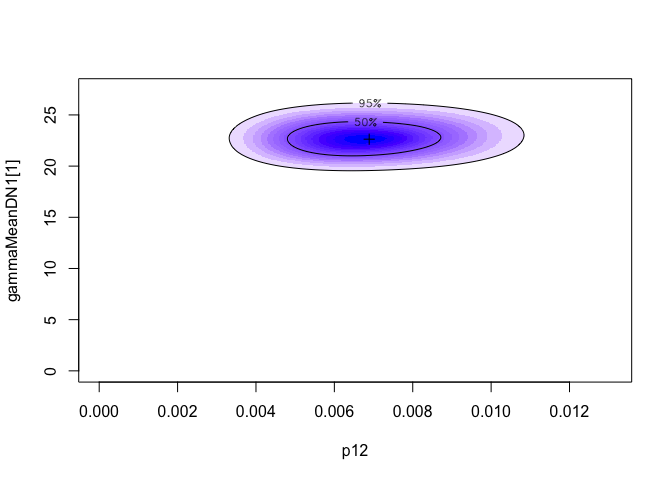
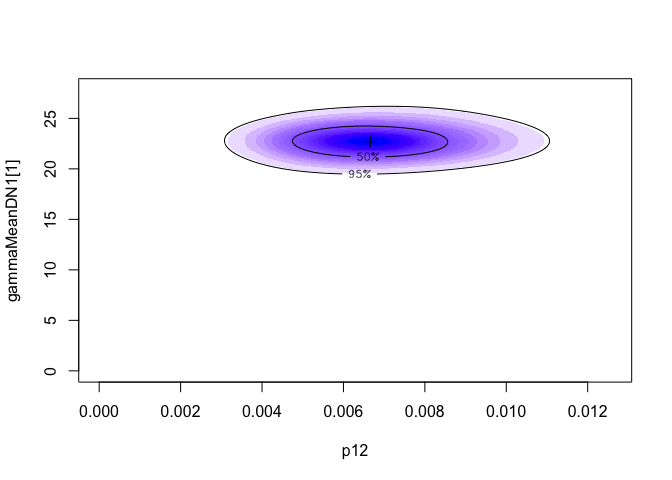
Update

diff --git a/README_mTADA_DD_EE.md b/README_mTADA_DD_EE.md
@@ -261,19 +261,19 @@ head(fData)
 ```
 
     ##   geneName dn_damaging_DD dn_lof_DD dn_damaging_EE dn_lof_EE        NO
-    ## 1     A1BG              0         0              0         0 0.9783450
-    ## 2 A1BG-AS1              0         0              0         0 0.9645882
-    ## 3     A1CF              0         0              0         0 0.9892615
-    ## 4      A2M              0         0              1         0 0.7684200
-    ## 5  A2M-AS1              0         0              0         0 0.9635947
-    ## 6    A2ML1              0         0              0         0 0.9918648
+    ## 1     A1BG              0         0              0         0 0.9785246
+    ## 2 A1BG-AS1              0         0              0         0 0.9647711
+    ## 3     A1CF              0         0              0         0 0.9894171
+    ## 4      A2M              0         0              1         0 0.7720136
+    ## 5  A2M-AS1              0         0              0         0 0.9637774
+    ## 6    A2ML1              0         0              0         0 0.9920100
     ##           BOTH        FIRST      SECOND
-    ## 1 0.0027903541 0.0103240111 0.008540587
-    ## 2 0.0058906752 0.0206214817 0.008899630
-    ## 3 0.0006286489 0.0027170260 0.007392823
-    ## 4 0.0024175419 0.0002621266 0.228900306
-    ## 5 0.0061198844 0.0213744407 0.008911025
-    ## 6 0.0002031260 0.0009292383 0.007002865
+    ## 1 0.0028679901 0.0102413410 0.008366030
+    ## 2 0.0060546081 0.0204564780 0.008717788
+    ## 3 0.0006461228 0.0026951985 0.007241535
+    ## 4 0.0024959676 0.0002611957 0.225229188
+    ## 5 0.0062901964 0.0212034136 0.008728950
+    ## 6 0.0002087698 0.0009217631 0.006859482
 
 ##### Genes with PP3 &gt; 0.8 (Posterior probabilities of Model 3)
 
@@ -297,20 +297,20 @@ fData[fData$BOTH > 0.8, ]
     ## 14681    SCN8A              6         0              2         0
     ## 16228   STXBP1              6         5              4         1
     ##                 NO      BOTH        FIRST       SECOND
-    ## 2348  3.163597e-04 0.9931371 4.025879e-03 2.520661e-03
-    ## 3201  4.678387e-10 0.9347998 6.520017e-02 2.166461e-10
-    ## 6254  2.551571e-03 0.9505500 1.734506e-03 4.516391e-02
-    ## 6265  9.359589e-04 0.9791654 1.619343e-03 1.827927e-02
-    ## 6610  1.625958e-08 0.9983457 1.653983e-03 3.169889e-07
-    ## 7165  1.958372e-06 0.8881876 1.118099e-01 5.024634e-07
-    ## 7426  8.894439e-13 0.9341274 6.587265e-02 4.073843e-13
-    ## 8283  3.296398e-13 0.9981495 1.850541e-03 5.742768e-12
-    ## 8284  4.368672e-03 0.9101829 8.391804e-02 1.530409e-03
-    ## 10146 1.498629e-48 0.8630992 1.369008e-01 3.051643e-49
-    ## 12480 1.485851e-02 0.8874933 9.307193e-02 4.576215e-03
-    ## 14673 3.163741e-18 0.9963013 3.698741e-03 2.752469e-17
-    ## 14681 4.290117e-06 0.9957965 4.166099e-03 3.312035e-05
-    ## 16228 7.774944e-24 1.0000000 1.019242e-08 2.463796e-17
+    ## 2348  3.079347e-04 0.9934025 3.886573e-03 2.402945e-03
+    ## 3201  4.562950e-10 0.9369294 6.307060e-02 2.069438e-10
+    ## 6254  2.488554e-03 0.9526933 1.677815e-03 4.314029e-02
+    ## 6265  9.116467e-04 0.9800866 1.564362e-03 1.743736e-02
+    ## 6610  1.582325e-08 0.9984033 1.596416e-03 3.021221e-07
+    ## 7165  1.913166e-06 0.8916632 1.083344e-01 4.807440e-07
+    ## 7426  8.675178e-13 0.9362774 6.372262e-02 3.891492e-13
+    ## 8283  3.207961e-13 0.9982139 1.786145e-03 5.473469e-12
+    ## 8284  4.264476e-03 0.9130268 8.124566e-02 1.463106e-03
+    ## 10146 1.465322e-48 0.8672381 1.327619e-01 2.922299e-49
+    ## 12480 1.451496e-02 0.8909314 9.017537e-02 4.378234e-03
+    ## 14673 3.079061e-18 0.9964297 3.570261e-03 2.623565e-17
+    ## 14681 4.175364e-06 0.9959428 4.021457e-03 3.156982e-05
+    ## 16228 7.565866e-24 1.0000000 9.837105e-09 2.348108e-17
 
 ##### Genes with PP1 &gt; 0.8 (Posterior probabilities of Model 1)
 
@@ -321,7 +321,6 @@ fData[fData$FIRST > 0.8, ]
     ##       geneName dn_damaging_DD dn_lof_DD dn_damaging_EE dn_lof_EE
     ## 347       ADNP              1        19              0         0
     ## 681    ANKRD11              0        32              0         0
-    ## 1000    ARID1A              1         2              0         0
     ## 1001    ARID1B              0        30              0         0
     ## 1002     ARID2              0         3              0         0
     ## 1153     ASXL1              0         4              0         0
@@ -344,14 +343,11 @@ fData[fData$FIRST > 0.8, ]
     ## 4632    DNMT3A              4         1              0         0
     ## 4832    DYRK1A              4        14              0         0
     ## 4861      EBF3              2         3              0         0
-    ## 4903    EEF1A2              3         0              0         0
     ## 4948    EFTUD2              3         2              0         0
     ## 4974     EHMT1              2         7              0         0
     ## 5157     EP300              3        12              0         0
     ## 6120     FOXP1              4         8              0         0
     ## 6121     FOXP2              1         2              0         0
-    ## 6351   GATAD2B              0         7              0         0
-    ## 6606     GNAI1              5         0              0         0
     ## 7330    HIVEP2              2         2              0         0
     ## 7333       HK1              3         1              0         0
     ## 8168    KANSL1              0         8              0         0
@@ -362,7 +358,6 @@ fData[fData$FIRST > 0.8, ]
     ## 8336     KDM5B              0         3              0         0
     ## 9618     LZTR1              2         1              0         0
     ## 9727    MAP4K4              3         2              0         0
-    ## 9821      MBD5              0         3              0         0
     ## 9906    MED13L              5        13              0         0
     ## 9935     MEF2C              4         4              0         0
     ## 10670    MYT1L              2         2              0         0
@@ -376,11 +371,8 @@ fData[fData$FIRST > 0.8, ]
     ## 13538    PUF60              0         3              0         0
     ## 13540     PUM2              1         2              0         0
     ## 13541     PURA              3         7              0         0
-    ## 13599   QRICH1              0         3              0         0
-    ## 14605    SATB2              4         8              0         0
     ## 14894    SETD2              1         2              0         0
     ## 14897    SETD5              2        14              0         0
-    ## 15010   SHANK3              0         3              0         0
     ## 15074    SIN3A              1         3              0         0
     ## 15133  SLC12A2              2         1              0         0
     ## 15440   SLC6A1              6         2              0         0
@@ -388,7 +380,6 @@ fData[fData$FIRST > 0.8, ]
     ## 15752      SON              0         3              0         0
     ## 15985    SRCAP              1         4              0         0
     ## 16337  SYNGAP1              0        13              0         0
-    ## 16537  TBL1XR1              2         4              0         0
     ## 16578    TCF12              1         2              0         0
     ## 16581    TCF20              0         5              0         0
     ## 16587     TCF4              4         9              0         0
@@ -397,83 +388,74 @@ fData[fData$FIRST > 0.8, ]
     ## 18337    WDR26              1         2              0         0
     ## 18420    WHSC1              0         3              0         0
     ##                 NO       BOTH     FIRST       SECOND
-    ## 347   4.076279e-37 0.19418263 0.8058174 3.172652e-39
-    ## 681   2.288220e-60 0.13365487 0.8663451 1.140188e-62
-    ## 1000  8.442044e-02 0.11236514 0.8028328 3.816269e-04
-    ## 1001  1.697941e-56 0.14110943 0.8588906 9.010018e-59
-    ## 1002  2.188005e-03 0.16872150 0.8290761 1.438167e-05
-    ## 1153  1.840407e-05 0.16671645 0.8332650 1.189307e-07
-    ## 1155  2.518187e-25 0.19365281 0.8063472 1.953325e-27
-    ## 1317  1.131352e-05 0.17847270 0.8215159 7.938500e-08
-    ## 1450  7.442702e-07 0.18452875 0.8154705 5.439654e-09
-    ## 1630  7.086820e-05 0.12792731 0.8720015 3.358012e-07
-    ## 2355  4.887615e-02 0.08575045 0.8652169 1.564563e-04
-    ## 2434  1.009392e-02 0.16436367 0.8254775 6.491503e-05
-    ## 3202  5.948859e-02 0.10687167 0.8333933 2.463945e-04
-    ## 3203  5.505365e-04 0.08428085 0.9151670 1.637569e-06
-    ## 3206  4.679737e-02 0.09731498 0.8557158 1.718923e-04
-    ## 3457  6.310091e-05 0.11343533 0.8865013 2.607891e-07
-    ## 3516  1.530603e-04 0.17139606 0.8284499 1.022780e-06
-    ## 3599  1.569994e-03 0.17910345 0.8193155 1.108500e-05
-    ## 3773  1.294616e-10 0.08994372 0.9100563 4.132648e-13
-    ## 3876  8.938807e-04 0.19076461 0.8083347 6.813511e-06
-    ## 3924  3.486183e-05 0.18675258 0.8132123 2.585817e-07
-    ## 3942  1.537509e-19 0.17605382 0.8239462 1.061082e-21
-    ## 4632  3.841678e-05 0.16566085 0.8343005 2.463787e-07
-    ## 4832  5.178518e-31 0.18155794 0.8184421 3.710373e-33
-    ## 4861  8.596561e-07 0.18336377 0.8166354 6.234403e-09
-    ## 4903  1.657226e-02 0.17990638 0.8034015 1.198617e-04
-    ## 4948  2.496590e-05 0.14405471 0.8559202 1.357145e-07
-    ## 4974  2.132863e-13 0.14158674 0.8584133 1.136250e-15
-    ## 5157  4.058064e-23 0.10718791 0.8928121 1.573582e-25
-    ## 6120  9.984496e-19 0.16995293 0.8300471 6.602933e-21
-    ## 6121  5.418976e-03 0.17036927 0.8241756 3.618042e-05
-    ## 6351  4.185276e-12 0.19893151 0.8010685 3.356934e-14
-    ## 6606  1.518471e-05 0.19783519 0.8021495 1.209594e-07
-    ## 7330  1.633463e-03 0.13611345 0.8622448 8.328459e-06
-    ## 7333  2.797528e-03 0.13897251 0.8582153 1.463160e-05
-    ## 8168  1.944143e-13 0.17712759 0.8228724 1.351658e-15
-    ## 8177  2.067267e-12 0.14527241 0.8547276 1.134846e-14
-    ## 8178  9.982456e-13 0.15253706 0.8474629 5.803324e-15
-    ## 8211  8.643906e-03 0.17127333 0.8200244 5.831198e-05
-    ## 8228  2.397430e-03 0.16452182 0.8330655 1.529238e-05
-    ## 8336  3.001978e-02 0.11856202 0.8512832 1.350404e-04
-    ## 9618  2.088517e-02 0.15716815 0.8218177 1.290066e-04
-    ## 9727  2.175029e-04 0.12228281 0.8774987 9.789686e-07
-    ## 9821  3.826430e-04 0.19808333 0.8015310 3.054262e-06
-    ## 9906  1.519912e-28 0.11957888 0.8804211 6.667564e-31
-    ## 9935  2.497651e-11 0.17502228 0.8249777 1.711464e-13
-    ## 10670 5.461016e-04 0.15055996 0.8488908 3.128354e-06
-    ## 10978 2.417298e-07 0.17673102 0.8232687 1.676047e-09
-    ## 11282 2.429947e-11 0.13231072 0.8676893 1.196775e-13
-    ## 12004 5.404988e-09 0.16864865 0.8313513 3.541423e-11
-    ## 12831 1.674459e-09 0.18618763 0.8138124 1.237331e-11
-    ## 12994 5.305021e-08 0.18796693 0.8120330 3.966246e-10
-    ## 13062 5.244320e-15 0.16873650 0.8312635 3.438304e-17
-    ## 13250 8.659265e-03 0.15861696 0.8326705 5.327731e-05
-    ## 13538 2.903229e-04 0.19053526 0.8091722 2.208007e-06
-    ## 13540 8.162650e-03 0.15587115 0.8359170 4.916076e-05
-    ## 13541 2.495342e-16 0.19166997 0.8083300 1.911086e-18
-    ## 13599 3.047064e-04 0.19819888 0.8014940 2.433702e-06
-    ## 14605 1.812114e-19 0.19490592 0.8050941 1.416931e-21
-    ## 14894 4.837531e-02 0.14499247 0.8063513 2.809505e-04
-    ## 14897 1.790139e-27 0.16349013 0.8365099 1.130036e-29
-    ## 15010 5.825625e-04 0.19845091 0.8009619 4.661961e-06
-    ## 15074 2.367623e-04 0.14319037 0.8565716 1.278343e-06
-    ## 15133 5.029466e-02 0.14026185 0.8091619 2.815859e-04
-    ## 15440 2.192343e-10 0.18028985 0.8197102 1.557415e-12
-    ## 15546 1.411478e-08 0.10950670 0.8904933 5.606206e-11
-    ## 15752 3.825028e-03 0.16124036 0.8349108 2.385905e-05
-    ## 15985 3.756137e-05 0.12239989 0.8775624 1.692113e-07
-    ## 16337 1.012961e-22 0.14700173 0.8529983 5.638348e-25
-    ## 16537 5.959698e-09 0.19666701 0.8033330 4.712431e-11
-    ## 16578 3.096791e-03 0.17172967 0.8251527 2.081650e-05
-    ## 16581 1.275934e-07 0.18507318 0.8149267 9.359183e-10
-    ## 16587 1.133315e-20 0.16332729 0.8366727 7.145596e-23
-    ## 17284 6.720729e-03 0.16811869 0.8251164 4.422848e-05
-    ## 17548 4.268273e-05 0.13399424 0.8659629 2.133162e-07
-    ## 18337 1.975477e-03 0.18070298 0.8173074 1.410707e-05
-    ## 18420 3.971880e-03 0.14549348 0.8505127 2.194541e-05
+    ## 347   4.081312e-37 0.19979514 0.8002049 3.111074e-39
+    ## 681   2.296030e-60 0.13781713 0.8621829 1.120490e-62
+    ## 1001  1.703280e-56 0.14546487 0.8545351 8.851994e-59
+    ## 1002  2.192670e-03 0.17375369 0.8240395 1.411517e-05
+    ## 1153  1.844496e-05 0.17170422 0.8282772 1.167373e-07
+    ## 1155  2.521344e-25 0.19925379 0.8007462 1.915449e-27
+    ## 1317  1.133388e-05 0.18373465 0.8162539 7.788809e-08
+    ## 1450  7.454474e-07 0.18992799 0.8100713 5.335923e-09
+    ## 1630  7.112469e-05 0.13193829 0.8679903 3.300679e-07
+    ## 2355  4.910791e-02 0.08853795 0.8622002 1.539571e-04
+    ## 2434  1.011637e-02 0.16928150 0.8205384 6.371803e-05
+    ## 3202  5.972012e-02 0.11025244 0.8297852 2.422535e-04
+    ## 3203  5.533953e-04 0.08705964 0.9123854 1.612133e-06
+    ## 3206  4.700052e-02 0.10043834 0.8523921 1.690790e-04
+    ## 3457  6.336230e-05 0.11705293 0.8828835 2.564701e-07
+    ## 3516  1.533745e-04 0.17649399 0.8233516 1.003748e-06
+    ## 3599  1.572764e-03 0.18437749 0.8140389 1.087559e-05
+    ## 3773  1.301079e-10 0.09289069 0.9071093 4.067646e-13
+    ## 3876  8.950877e-04 0.19630097 0.8027973 6.682039e-06
+    ## 3924  3.491418e-05 0.19220150 0.8077633 2.536304e-07
+    ## 3942  1.540409e-19 0.18126021 0.8187398 1.041165e-21
+    ## 4632  3.850359e-05 0.17062349 0.8293378 2.418441e-07
+    ## 4832  5.187261e-31 0.18689018 0.8131098 3.640007e-33
+    ## 4861  8.610517e-07 0.18873681 0.8112623 6.115773e-09
+    ## 4948  2.504174e-05 0.14848530 0.8514895 1.333201e-07
+    ## 4974  2.139532e-13 0.14595440 0.8540456 1.116302e-15
+    ## 5157  4.075793e-23 0.11063119 0.8893688 1.547871e-25
+    ## 6120  1.000552e-18 0.17501722 0.8249828 6.480409e-21
+    ## 6121  5.430066e-03 0.17543562 0.8190988 3.550696e-05
+    ## 7330  1.638872e-03 0.14033801 0.8580149 8.183749e-06
+    ## 7333  2.806476e-03 0.14326972 0.8539094 1.437576e-05
+    ## 8168  1.947735e-13 0.18235870 0.8176413 1.326235e-15
+    ## 8177  2.073457e-12 0.14973393 0.8502661 1.114775e-14
+    ## 8178  1.000973e-12 0.15718066 0.8428193 5.699201e-15
+    ## 8211  8.661089e-03 0.17635623 0.8149255 5.722321e-05
+    ## 8228  2.402900e-03 0.16945402 0.8281281 1.501125e-05
+    ## 8336  3.013121e-02 0.12229065 0.8474454 1.327471e-04
+    ## 9618  2.093521e-02 0.16189829 0.8170399 1.266494e-04
+    ## 9727  2.183341e-04 0.12614227 0.8736384 9.624482e-07
+    ## 9906  1.525871e-28 0.12336520 0.8766348 6.555695e-31
+    ## 9935  2.502455e-11 0.18020483 0.8197952 1.679400e-13
+    ## 10670 5.476304e-04 0.15515371 0.8442956 3.072430e-06
+    ## 10978 2.421798e-07 0.18195301 0.8180467 1.644546e-09
+    ## 11282 2.438359e-11 0.13643772 0.8635623 1.176157e-13
+    ## 12004 5.416622e-09 0.17368221 0.8263178 3.475871e-11
+    ## 12831 1.677008e-09 0.19162401 0.8083760 1.213664e-11
+    ## 12994 5.312755e-08 0.19344290 0.8065570 3.890132e-10
+    ## 13062 5.255592e-15 0.17377213 0.8262279 3.374650e-17
+    ## 13250 8.680420e-03 0.16339845 0.8278688 5.230630e-05
+    ## 13538 2.907187e-04 0.19606753 0.8036396 2.165430e-06
+    ## 13540 8.183432e-03 0.16058635 0.8311819 4.826973e-05
+    ## 13541 2.498648e-16 0.19722763 0.8027724 1.874162e-18
+    ## 14894 4.850155e-02 0.14938806 0.8018345 2.758758e-04
+    ## 14897 1.794325e-27 0.16840092 0.8315991 1.109324e-29
+    ## 15074 2.374885e-04 0.14759870 0.8521626 1.255826e-06
+    ## 15133 5.043368e-02 0.14453631 0.8047535 2.765423e-04
+    ## 15440 2.196144e-10 0.18559329 0.8144067 1.527948e-12
+    ## 15546 1.417526e-08 0.11301504 0.8869849 5.514142e-11
+    ## 15752 3.834163e-03 0.16609181 0.8300506 2.342292e-05
+    ## 15985 3.770482e-05 0.12626269 0.8736994 1.663553e-07
+    ## 16337 1.015931e-22 0.15150695 0.8484931 5.538286e-25
+    ## 16578 3.103036e-03 0.17683118 0.8200454 2.042841e-05
+    ## 16581 1.277927e-07 0.19048463 0.8095152 9.180530e-10
+    ## 16587 1.135971e-20 0.16823416 0.8317658 7.014670e-23
+    ## 17284 6.734956e-03 0.17313027 0.8200914 4.340826e-05
+    ## 17548 4.282788e-05 0.13816533 0.8617916 2.096284e-07
+    ## 18337 1.978841e-03 0.18601283 0.8119945 1.383973e-05
+    ## 18420 3.983613e-03 0.14995575 0.8460391 2.155642e-05
 
 ##### Genes with PP2 &gt; 0.8 (Posterior probabilities of Model 2)
 
@@ -483,8 +465,8 @@ fData[fData$SECOND > 0.8, ]
 
     ##       geneName dn_damaging_DD dn_lof_DD dn_damaging_EE dn_lof_EE
     ## 14671    SCN1A              2         0              4         4
-    ##                NO      BOTH        FIRST    SECOND
-    ## 14671 2.00636e-12 0.1155445 8.465784e-15 0.8844555
+    ##                 NO     BOTH        FIRST   SECOND
+    ## 14671 2.037003e-12 0.120551 8.524689e-15 0.879449
 
 #### Use mTADA’s results for single-trait analyses.
 
@@ -503,9 +485,9 @@ head(fData1[, c(1:5, 10)])
     ## 347      ADNP              1        19              0         0 1.0000000
     ## 447     AHDC1              0         8              0         0 1.0000000
     ## 681   ANKRD11              0        32              0         0 1.0000000
-    ## 1000   ARID1A              1         2              0         0 0.9151979
+    ## 1000   ARID1A              1         2              0         0 0.9149099
     ## 1001   ARID1B              0        30              0         0 1.0000000
-    ## 1002    ARID2              0         3              0         0 0.9977976
+    ## 1002    ARID2              0         3              0         0 0.9977932
 
 ##### Trait 2
 
@@ -516,12 +498,12 @@ head(fData2[, c(1:5, 11)])
 ```
 
     ##      geneName dn_damaging_DD dn_lof_DD dn_damaging_EE dn_lof_EE   pTrait2
-    ## 2348  CACNA1A              5         0              2         0 0.9956578
-    ## 3201     CHD2              0         6              0         1 0.9347998
-    ## 6254   GABBR2              2         0              2         0 0.9957139
-    ## 6265   GABRB3              2         0              2         0 0.9974447
-    ## 6610    GNAO1              4         1              2         0 0.9983460
-    ## 7165    HECW2              5         1              1         0 0.8881881
+    ## 2348  CACNA1A              5         0              2         0 0.9958055
+    ## 3201     CHD2              0         6              0         1 0.9369294
+    ## 6254   GABBR2              2         0              2         0 0.9958336
+    ## 6265   GABRB3              2         0              2         0 0.9975240
+    ## 6610    GNAO1              4         1              2         0 0.9984036
+    ## 7165    HECW2              5         1              1         0 0.8916637
 
 #### Other information
 
@@ -543,8 +525,8 @@ and *π*<sub>3</sub> respectively in **Table 1**.
 piValue
 ```
 
-    ##         pNO      pFIRST     pSECOND       pBOTH 
-    ## 0.961706341 0.022805769 0.008930829 0.006557061
+    ##        pNO     pFIRST    pSECOND      pBOTH 
+    ## 0.96188882 0.02262329 0.00874835 0.00673954
 
 ##### Estimated information of *π*<sub>3</sub>.
 
@@ -554,9 +536,9 @@ Credible-interval information is from *p**C**I*.
 pCI ## Mode: estimated values; CI: credible interval with low (l) and upper (u) values
 ```
 
-    ##                         Mode          lCI         uCI
-    ## p12              0.006557061  0.003891385  0.01000175
-    ## gammaMeanDN1[1] 22.649165084 20.088115025 25.55547357
+    ##                        Mode          lCI         uCI
+    ## p12              0.00673954  0.003683986  0.01016346
+    ## gammaMeanDN1[1] 22.73366919 20.056821697 25.50755047
 
 To check the convergent information of *π*<sub>3</sub>, we can visualize
 MCMC results.
